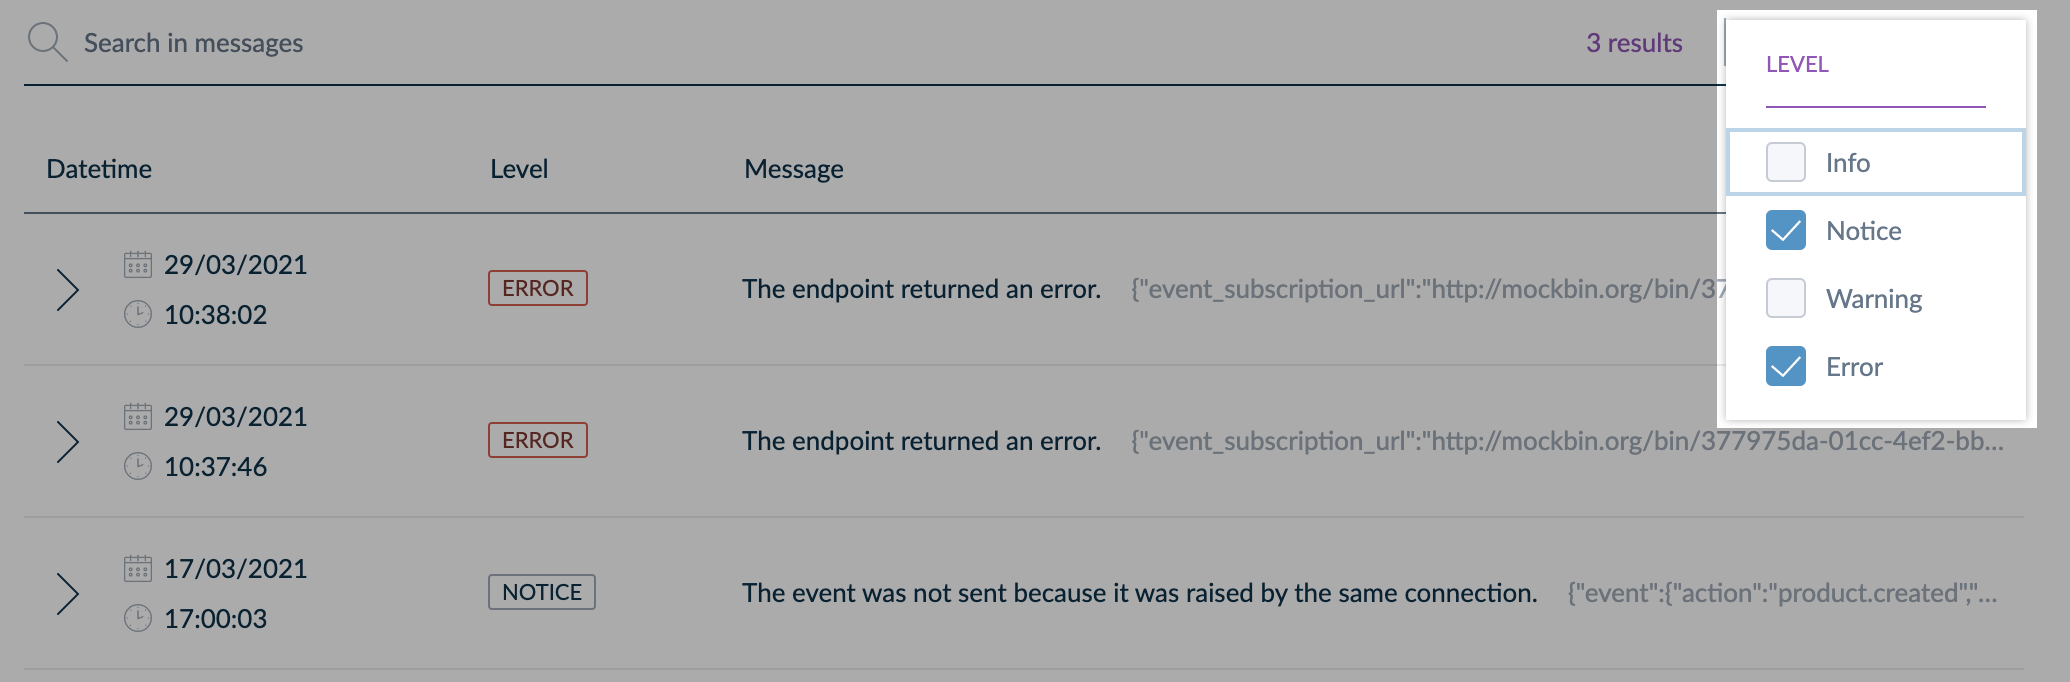
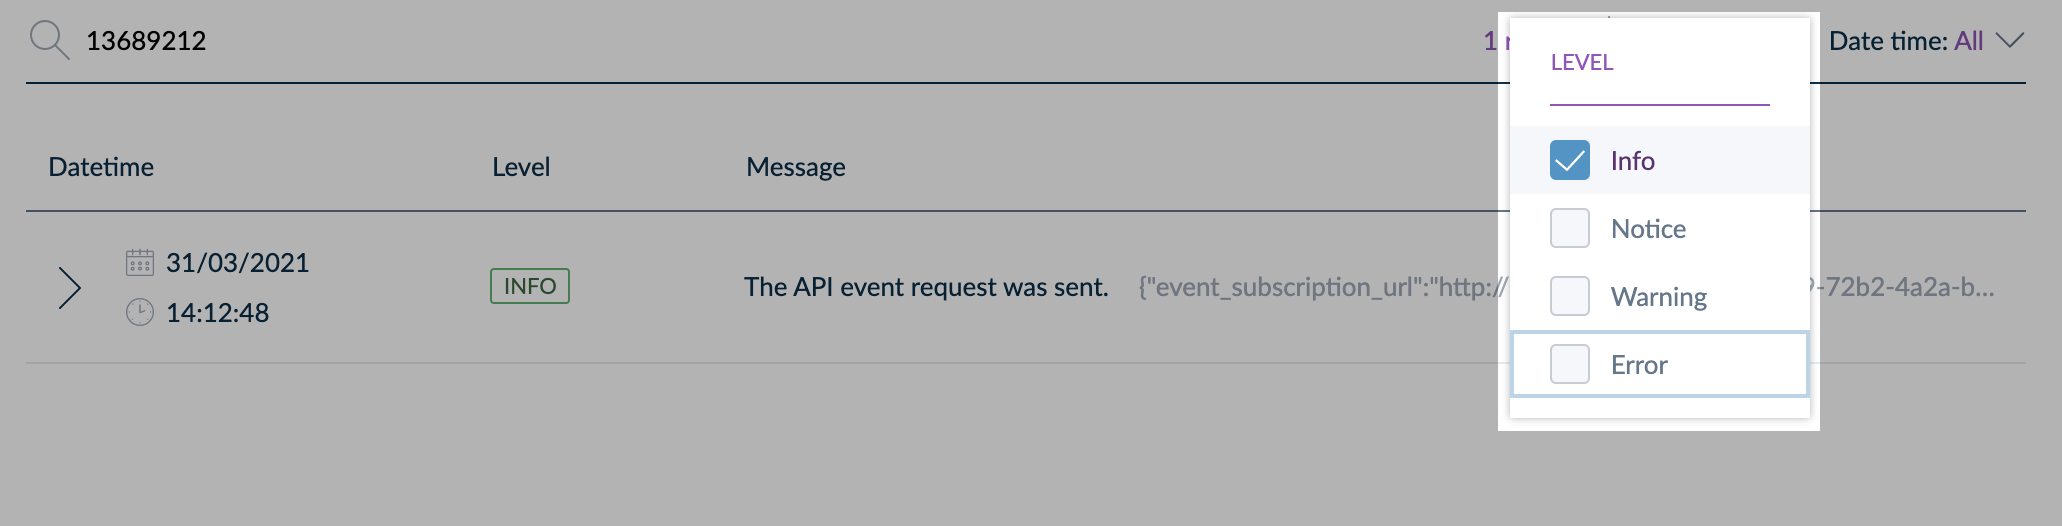
Add datetime filter

diff --git a/content/md/connectivity/manage-event-subscription.md b/content/md/connectivity/manage-event-subscription.md
@@ -98,13 +98,19 @@ To do so, we added a new submenu, `Event logs`, where you have access to several
 
 ![Event logs UI](../img/event-log-ui.gif)
 
-Moreover, we added a filter on log levels and a search bar to speed up your search of a specific log.
+In addition, we added filters on log levels and log date and time to help you find the right log quickly.
 
 ![Filter on log levels](../img/event-filter-on-levels.png)
 
+![Filter on log date and time](../img/event-filter-on-datetime.png)
+
+
+Moreover, the search bar allows you to refine your research even more.
+
 ![Download logs button](../img/event-logs-searchbar.png)
 
-And you still have access to the `Download logs` button that allows you to download a `.txt` file with all the logs related to an event subscription. 
+
+Finally, you still have access to the `Download logs` button that allows you to download a `.txt` file with all the logs related to an event subscription. 
 
 ![Download logs button](../img/connection-download-logs-button.png)
 
